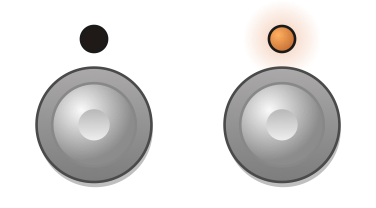
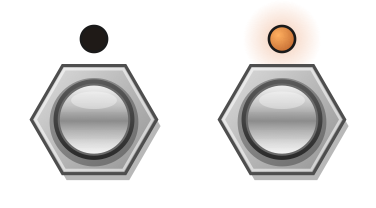
OctoBASS pedal: hex nut chrome footswitches, bypass footswitch labeled ON

Changed region(s): [[0.5559, 0.2885, 0.9362, 0.9231], [0.0585, 0.2885, 0.4388, 0.9231]]

diff --git a/plugins/octobass/lv2/tools/ModguiAssetRenderer.cpp b/plugins/octobass/lv2/tools/ModguiAssetRenderer.cpp
@@ -2,6 +2,7 @@
 #include <juce_gui_basics/juce_gui_basics.h>
 
 #include <array>
+#include <cmath>
 #include <cstdio>
 #include <functional>
 #include <string>
@@ -161,7 +162,7 @@ std::vector<Control> buildControls()
   }
 
   const std::array<std::pair<std::string, std::string>, 3> footswitches = {
-      {{":bypass", "BYPASS"}, {"nam1_on", "NAM 1"}, {"nam2_on", "NAM 2"}}};
+      {{":bypass", "ON"}, {"nam1_on", "NAM 1"}, {"nam2_on", "NAM 2"}}};
   for (size_t i = 0; i < footswitches.size(); ++i)
   {
     const float centreX = FootswitchRowCentreX + (static_cast<float>(i) - 1.0f) * FootswitchSpacing;
@@ -265,35 +266,66 @@ void drawFootswitch(juce::Graphics& g, juce::Rectangle<float> bounds, bool lit)
   g.setColour(juce::Colour(0xff1a1a1a));
   g.drawEllipse(ledBounds, 1.0f);
 
-  const float outerRadius = 22.0f;
-  const juce::Point<float> centre(bounds.getCentreX(), bounds.getBottom() - outerRadius - 2.0f);
+  const float nutRadius = 24.0f;
+  const juce::Point<float> centre(bounds.getCentreX(), bounds.getBottom() - nutRadius - 2.0f);
+  const auto hexagon = [&centre](float radius)
+  {
+    juce::Path path;
+    for (int i = 0; i < 6; ++i)
+    {
+      const float angle = juce::MathConstants<float>::pi / 3.0f * static_cast<float>(i);
+      const juce::Point<float> vertex(centre.x + radius * std::cos(angle),
+                                      centre.y + radius * std::sin(angle));
+      if (i == 0)
+        path.startNewSubPath(vertex);
+      else
+        path.lineTo(vertex);
+    }
+    path.closeSubPath();
+    return path;
+  };
   const auto circle = [&centre](float radius)
   { return juce::Rectangle<float>(radius * 2.0f, radius * 2.0f).withCentre(centre); };
 
-  g.setColour(juce::Colours::black.withAlpha(0.25f));
-  g.fillEllipse(circle(outerRadius).translated(0.5f, 2.0f));
+  const auto nut = hexagon(nutRadius);
+  g.setColour(juce::Colours::black.withAlpha(0.28f));
+  g.fillPath(nut, juce::AffineTransform::translation(1.5f, 2.5f));
 
-  juce::ColourGradient nut(juce::Colour(0xffABA9A9), centre.x, centre.y - outerRadius,
-                           juce::Colour(0xff7d7d7d), centre.x, centre.y + outerRadius, false);
-  g.setGradientFill(nut);
-  g.fillEllipse(circle(outerRadius));
-  g.setColour(juce::Colour(0xff4a4a4a));
-  g.drawEllipse(circle(outerRadius), 1.0f);
+  juce::ColourGradient nutFill(juce::Colour(0xffe2e2e2), centre.x - nutRadius, centre.y - nutRadius,
+                               juce::Colour(0xff8e8e8e), centre.x + nutRadius, centre.y + nutRadius,
+                               false);
+  g.setGradientFill(nutFill);
+  g.fillPath(nut);
 
-  const float capRadius = 16.0f;
-  juce::ColourGradient cap(
-      juce::Colour(0xfffafafa), centre.translated(-capRadius * 0.3f, -capRadius * 0.35f),
-      juce::Colour(0xff8c8c8c), centre.translated(capRadius * 0.5f, capRadius * 0.55f), true);
-  g.setGradientFill(cap);
+  g.setColour(juce::Colours::white.withAlpha(0.55f));
+  g.strokePath(hexagon(nutRadius - 1.6f), juce::PathStrokeType(1.0f));
+  g.setColour(juce::Colour(0xff4e4e4e));
+  g.strokePath(nut, juce::PathStrokeType(1.2f));
+
+  const float rimRadius = 15.5f;
+  g.setColour(juce::Colours::black.withAlpha(0.3f));
+  g.fillEllipse(circle(rimRadius + 1.5f).translated(0.0f, 1.0f));
+  juce::ColourGradient rim(juce::Colour(0xff5a5a5a), centre.x, centre.y - rimRadius,
+                           juce::Colour(0xff2a2a2a), centre.x, centre.y + rimRadius, false);
+  g.setGradientFill(rim);
+  g.fillEllipse(circle(rimRadius));
+
+  const float capRadius = 13.5f;
+  juce::ColourGradient chrome(juce::Colour(0xfff2f2f2), centre.x, centre.y - capRadius,
+                              juce::Colour(0xfff6f6f6), centre.x, centre.y + capRadius, false);
+  chrome.addColour(0.30, juce::Colour(0xffc4c4c4));
+  chrome.addColour(0.52, juce::Colour(0xff8a8a8a));
+  chrome.addColour(0.62, juce::Colour(0xffa8a8a8));
+  chrome.addColour(0.85, juce::Colour(0xffdedede));
+  g.setGradientFill(chrome);
   g.fillEllipse(circle(capRadius));
-  g.setColour(juce::Colour(0xff888888));
-  g.drawEllipse(circle(capRadius), 1.0f);
 
-  const float dimpleRadius = 6.0f;
-  juce::ColourGradient dimple(juce::Colour(0xffb8b8b8), centre.x, centre.y - dimpleRadius,
-                              juce::Colour(0xffeeeeee), centre.x, centre.y + dimpleRadius, false);
-  g.setGradientFill(dimple);
-  g.fillEllipse(circle(dimpleRadius));
+  g.setColour(juce::Colours::white.withAlpha(0.35f));
+  g.fillEllipse(circle(capRadius)
+                    .withSizeKeepingCentre(capRadius * 1.3f, capRadius * 0.5f)
+                    .translated(0.0f, -capRadius * 0.55f));
+  g.setColour(juce::Colour(0xff6a6a6a));
+  g.drawEllipse(circle(capRadius), 0.8f);
 }
 
 void paintWidgetFrame(OctoberLookAndFeel& lookAndFeel, const Control& control, int frame,

diff --git a/plugins/octobass/lv2/README.md b/plugins/octobass/lv2/README.md
@@ -28,7 +28,7 @@ Native LV2 wrapper around `octobass-core` for MOD Audio devices (Dwarf, Duo X) a
 - Percent ports use 0-100; the core receives 0-1.
 - File loads, clears and NAM quality changes run on the LV2 worker thread; `run()` does not allocate.
 - The pedal has no Solo buttons; the Solo ports are in MOD's settings panel. Both Solo ports on: the most recently engaged solo wins, and the modgui clears the other Solo port.
-- The footer has three footswitches with status LEDs: BYPASS (plugin bypass), NAM 1 and NAM 2 (slot on/off). A lit LED means the stage is running.
+- The footer has three footswitches with status LEDs: ON (plugin on/bypass), NAM 1 and NAM 2 (slot on/off). A lit LED means the plugin or slot is on.
 - Each NAM slot has a LITE/FULL lever to the right of its LCD. It shows FULL at quality >= 50% and sets quality to 0% or 100% when clicked.
 - Saved state stores file paths through `state:mapPath`.
 - LV2 versions have no major field, and hosts treat an odd minor or micro version as a development build (mod-ui labels it Testing). The encoding keeps every release even and increasing. MINOR must stay below 100.
